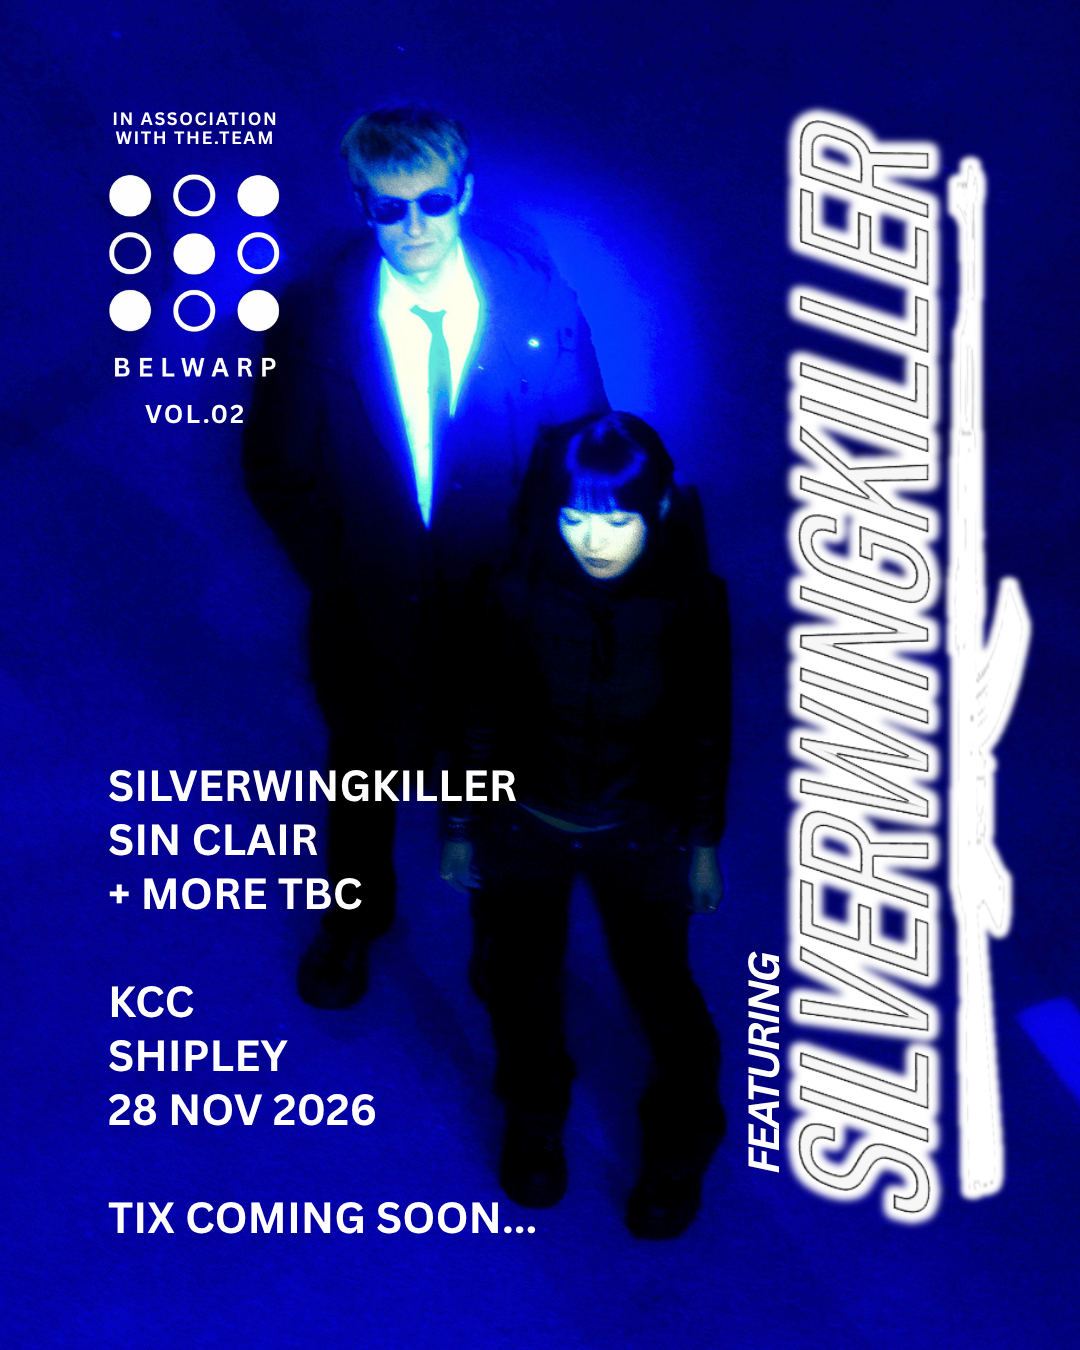
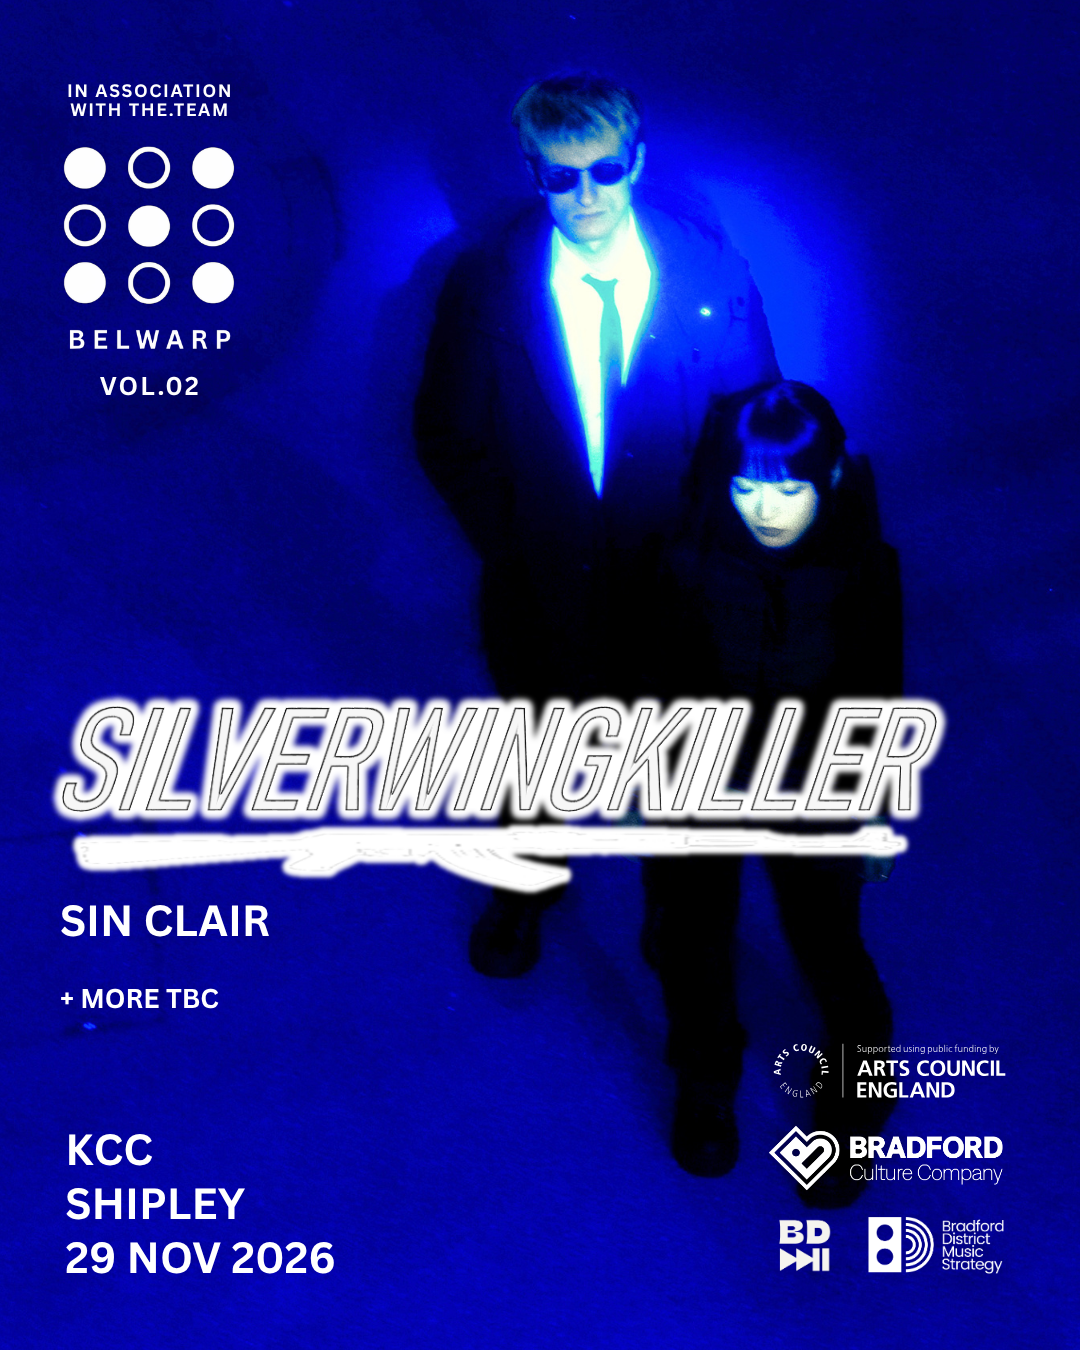
update BWP02 date; add support poster; add /swk and /site referrer links

diff --git a/index.html b/index.html
@@ -77,6 +77,15 @@
     <span>↓</span>
   </div>
 
+  <section class="chapter chapter--poster chapter--support">
+    <figure class="poster poster--support">
+      <img
+        src="./assets/bwp02/belwarp02-support.png"
+        alt="BELWARP VOL.02 — supported using public funding by Arts Council England, Bradford Culture Company, Bradford Music Month and Bradford District Music Strategy."
+      >
+    </figure>
+  </section>
+
   <section class="chapter chapter--hero chapter--02-hero">
     <img
       src="./assets/belwarp-dotmark.png"
@@ -103,8 +112,8 @@
       </h2>
 
       <div class="event__details">
-        <time datetime="2026-11-28">
-          28 NOV 2026
+        <time datetime="2026-11-29">
+          29 NOV 2026
         </time>
 
         <span>KIRKGATE CENTRE</span>

diff --git a/styles.css b/styles.css
@@ -891,6 +891,21 @@ a:focus-visible {
 
 
 /* ============================================================
+   SUPPORT / FUNDING POSTER
+   ============================================================ */
+
+.poster--support {
+  width: min(62vw, 760px);
+}
+
+.poster--support img {
+  transform: rotate(1.5deg);
+  box-shadow:
+    0 2rem 6rem rgba(0, 0, 0, 0.5);
+}
+
+
+/* ============================================================
    QUOTE
    ============================================================ */
 

diff --git a/tickets/swk/index.html b/tickets/swk/index.html
@@ -7,7 +7,7 @@
 
   <script>
     window.location.replace(
-      "https://buytickets.at/belwarp/2422775?ref=site"
+      "https://buytickets.at/belwarp/2422775?ref=swk"
     );
   </script>
 </head>
